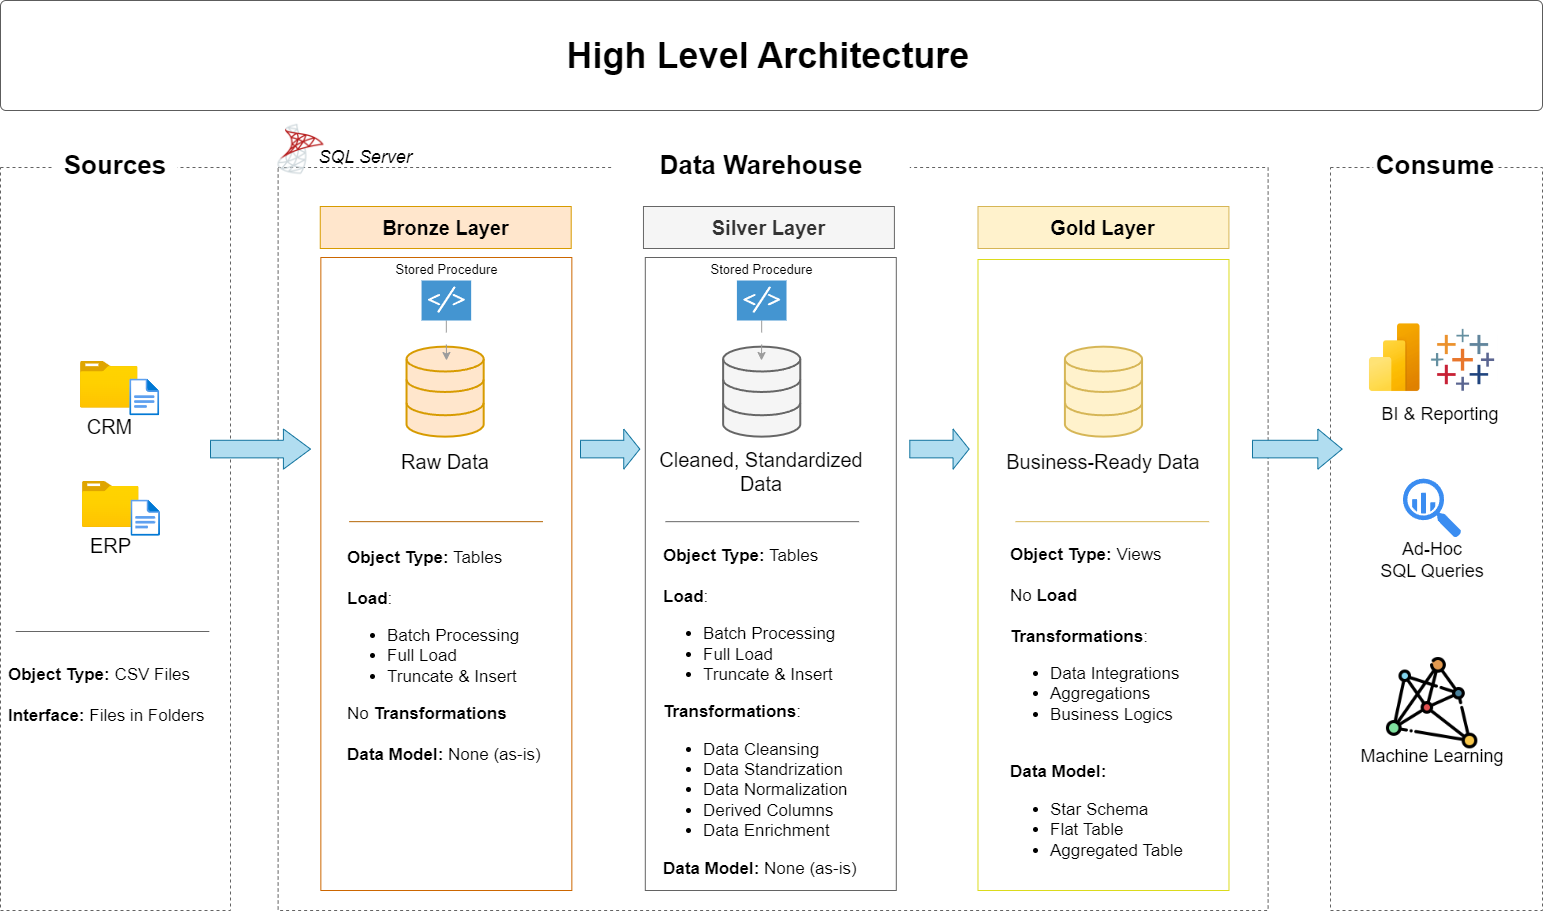
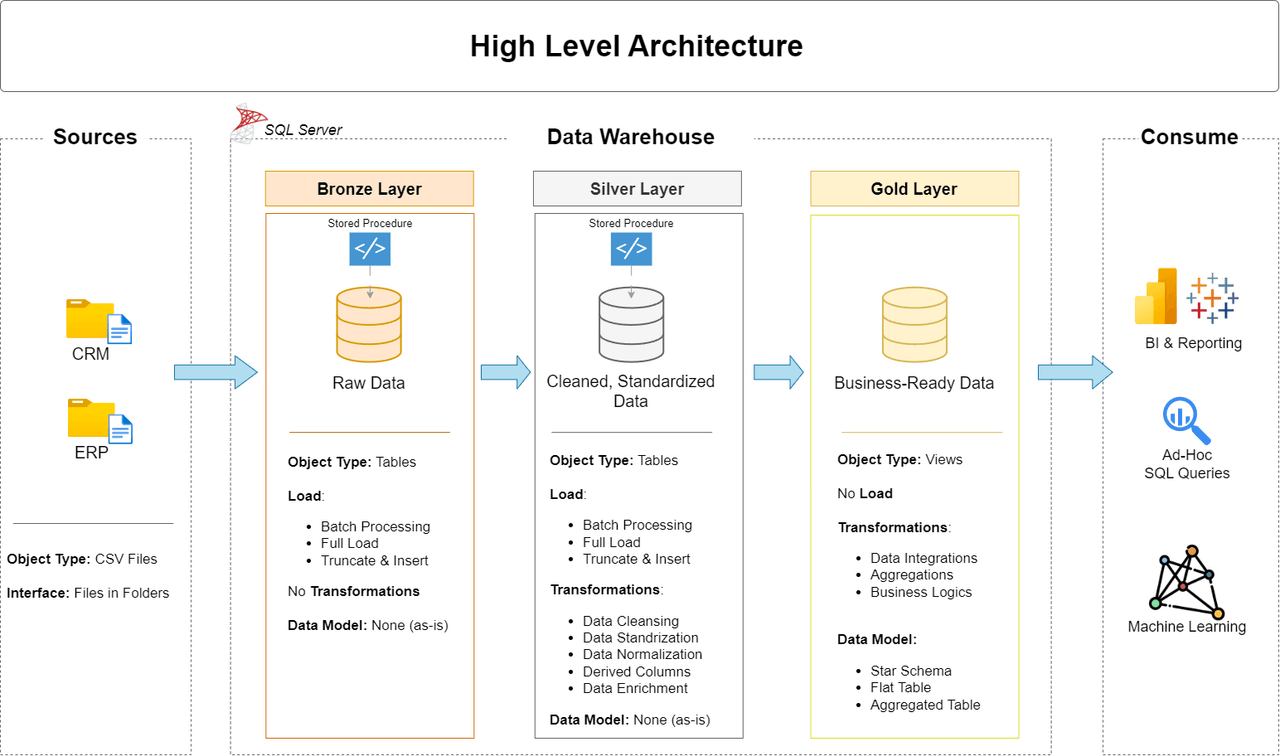
perf: compress heavy project images (crime 3.8MB->99KB, credit 1.5MB->84KB)

diff --git a/src/data/portfolio.js b/src/data/portfolio.js
@@ -3,7 +3,7 @@ import btc from "../assets/images/portfolio-images/bitcoin.jpg";
 import seg from "../assets/images/portfolio-images/Customer Segmentati.jpg";
 import crime from "../assets/images/portfolio-images/crime.jpg";
 import fraud from "../assets/images/portfolio-images/fraud.jpeg";
-import credit from "../assets/images/portfolio-images/credit.png";
+import credit from "../assets/images/portfolio-images/credit.jpg";
 
 export const profile = {
   name: "Abdulrahman Aruna",
